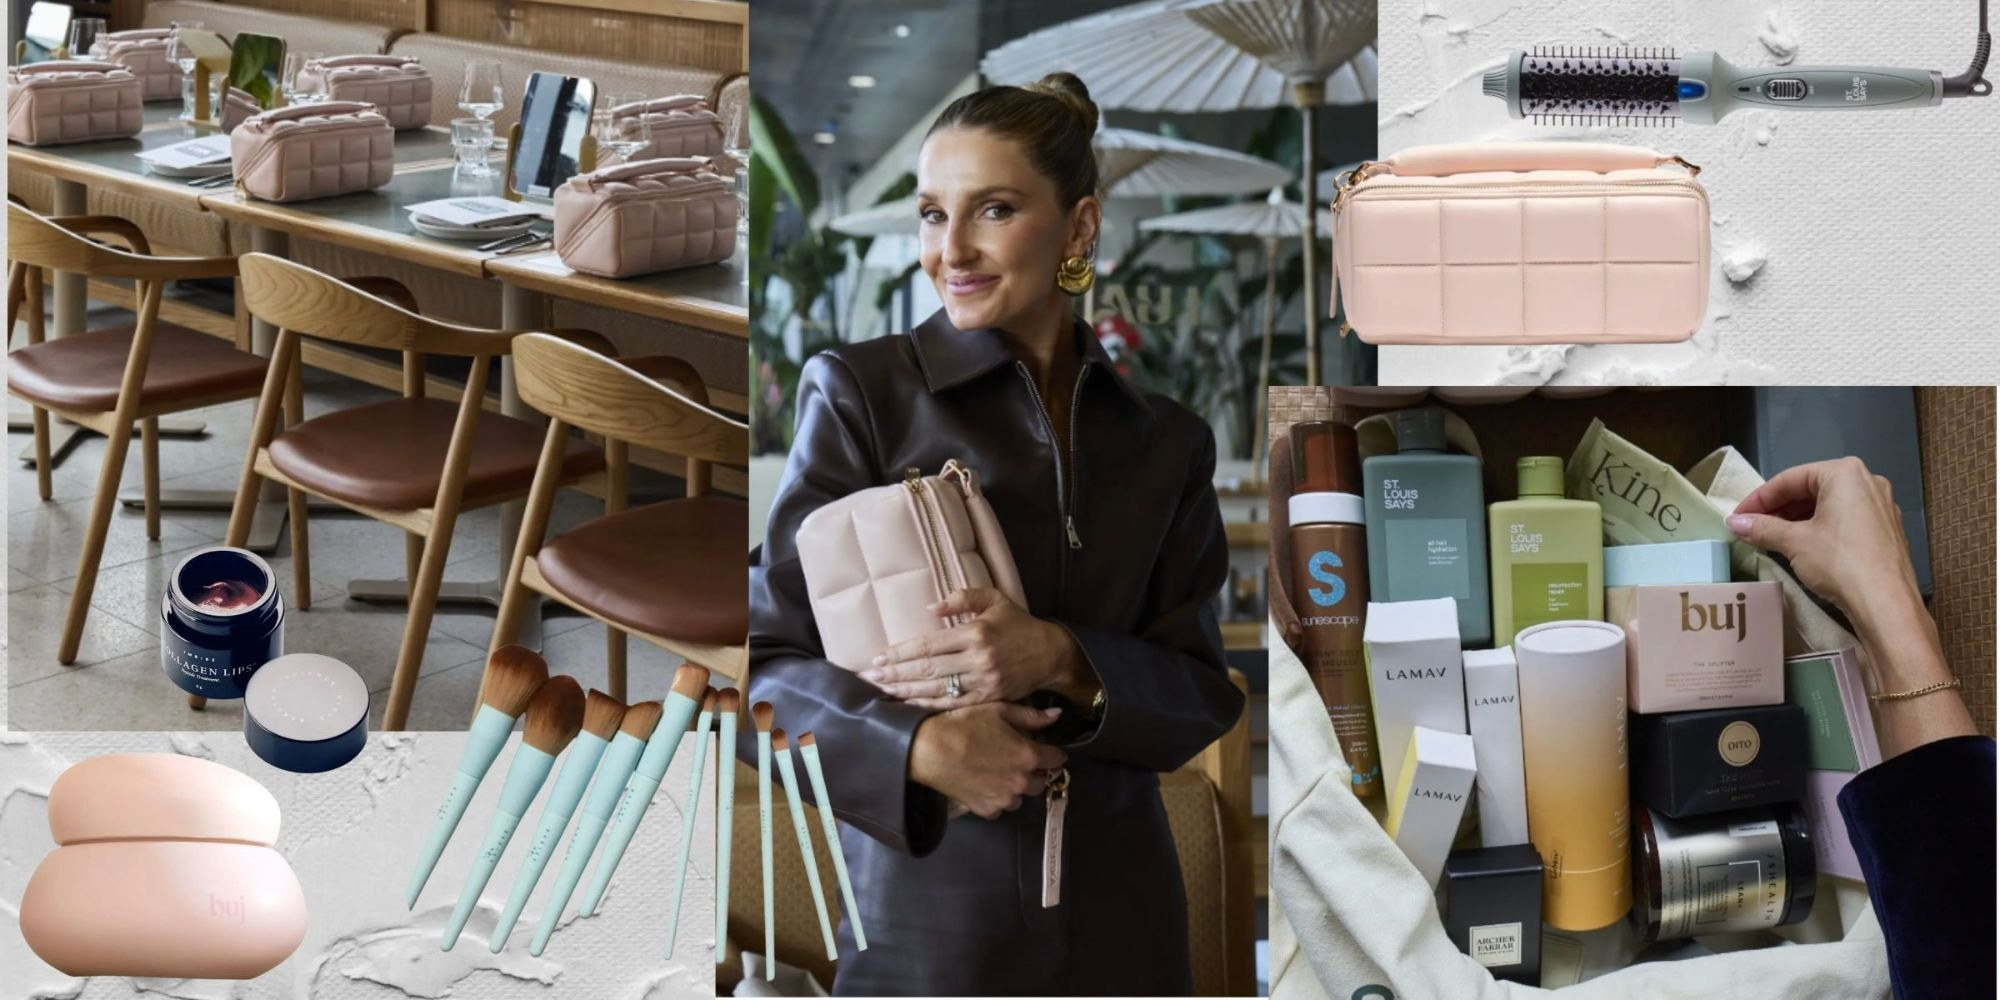
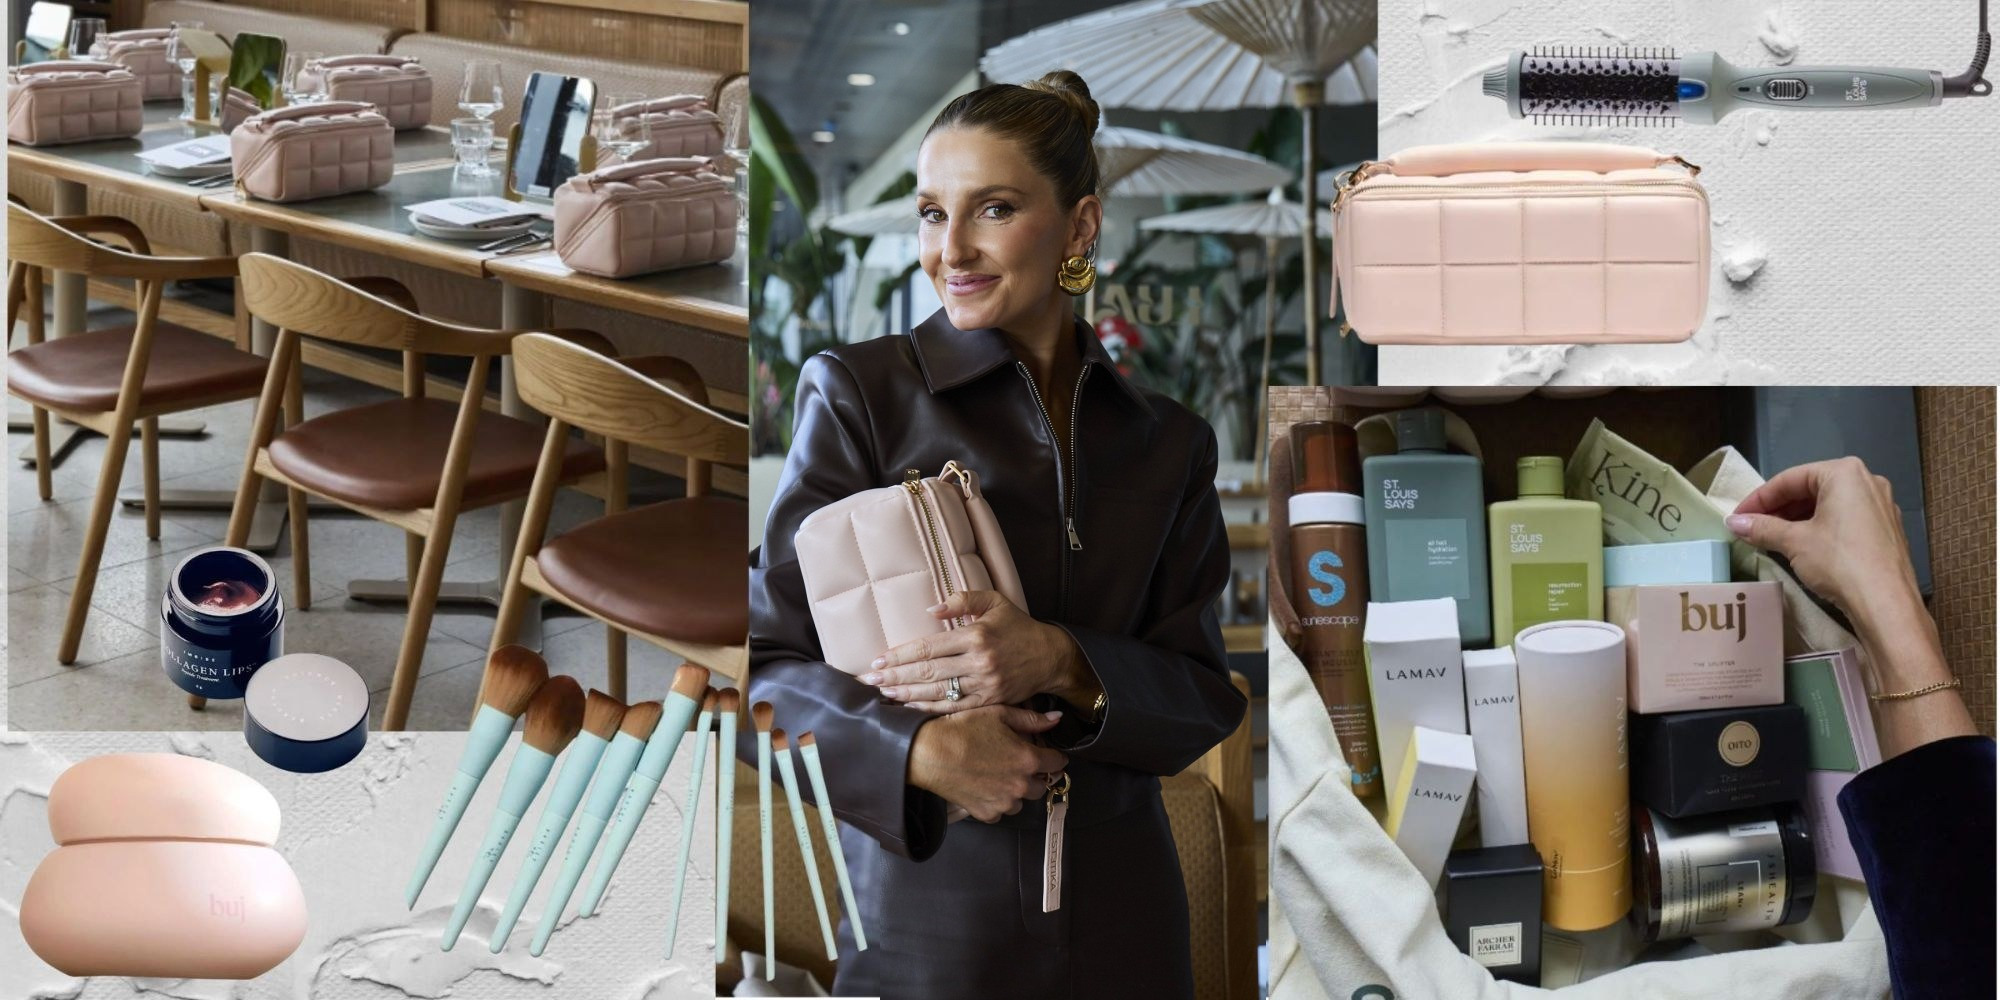
Home hero: add goodie bag shop page as second slide; sharpen Kate in the collage
HeroWide slides can now carry an href and CTA label so non-article pages can ride the carousel. The collage's Kate tile was a soft upscale; rebuilt from the 1200x1800 source. Royce Hotel leaves the rotation to keep the hero at four slides.

diff --git a/app/page.tsx b/app/page.tsx
@@ -50,6 +50,20 @@ export const metadata: Metadata = {
   alternates: { canonical: '/' },
 }
 
+const GOODIE_BAG_SLIDE = {
+  frontmatter: {
+    title: 'Shop the Products Our Editors Are Using',
+    slug: 'goodie-bag',
+    category: 'shop',
+    excerpt: 'Everything that went home in the bag from the first Beauticate Collective lunch, in one place.',
+    hero_image: '/content/shop/goodie-bag/hero.jpg',
+    hero_eyebrow: 'The Collective goodie bag',
+    hero_focus: 'center 20%',
+    href: '/shop/collections/goodie-bag',
+    hero_cta: 'Shop the bag',
+  },
+}
+
 export default async function HomePage() {
   const [curatedProducts, allProducts, vodcastEpisodes, allCollections, freeShipCols] = await Promise.all([
     getTeamRailProducts(),
@@ -82,6 +96,10 @@ export default async function HomePage() {
 
   const heroArticles = getHeroArticles()
   heroArticles.forEach(a => a && shownSlugs.add(a.frontmatter.slug))
+  // The goodie bag shop page rides the carousel as its second slide, right
+  // behind the Lua lunch story it belongs to. Hero is capped at four slides.
+  const heroSlides = [...heroArticles]
+  heroSlides.splice(1, 0, GOODIE_BAG_SLIDE as any)
   const duo1Articles = take(2)
   const trio1Articles = take(3)
   const [splitArticle] = take(1)
@@ -91,7 +109,7 @@ export default async function HomePage() {
   return (
     <>
       {/* 1 — Cycling hero */}
-      {heroArticles.length > 0 && <HeroWide articles={heroArticles as any} />}
+      {heroArticles.length > 0 && <HeroWide articles={heroSlides as any} />}
 
       {/* 2 — Trust + press logos (one credibility moment under the hero) */}
       <PressLogoBar className="py-12" />

diff --git a/components/home/HeroWide.tsx b/components/home/HeroWide.tsx
@@ -18,10 +18,13 @@ interface Article {
     hero_eyebrow?: string
     hero_aspect?: string
     hero_focus?: string
+    href?: string
+    hero_cta?: string
   }
 }
 
 function articleHref(f: Article['frontmatter']) {
+  if (f.href) return f.href
   return `/${f.category}${f.subcategory ? `/${f.subcategory}` : ''}/${f.slug}`
 }
 
@@ -104,7 +107,7 @@ function Slide({
           className="inline-block mt-4 font-sans text-[10.5px] tracking-[0.2em] uppercase font-medium"
           style={{ color: 'rgba(255,255,255,.85)', borderBottom: '1px solid rgba(255,255,255,.5)', paddingBottom: '2px' }}
         >
-          Read the story
+          {f.hero_cta ?? 'Read the story'}
         </span>
       </div>
     </Link>
